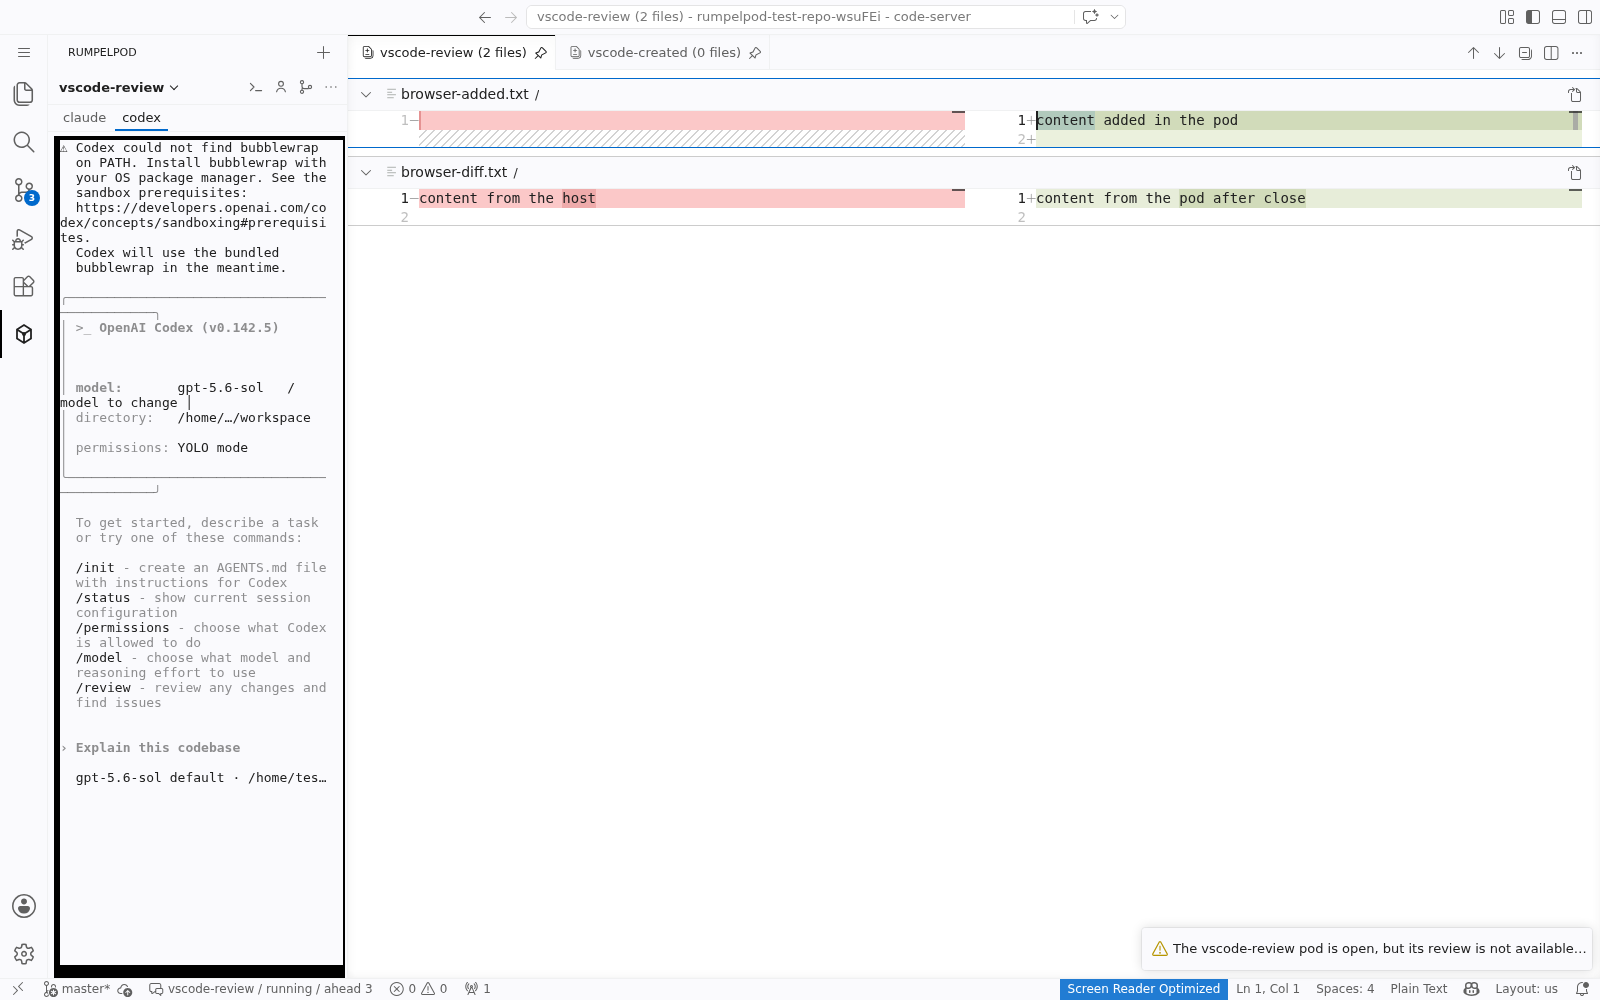
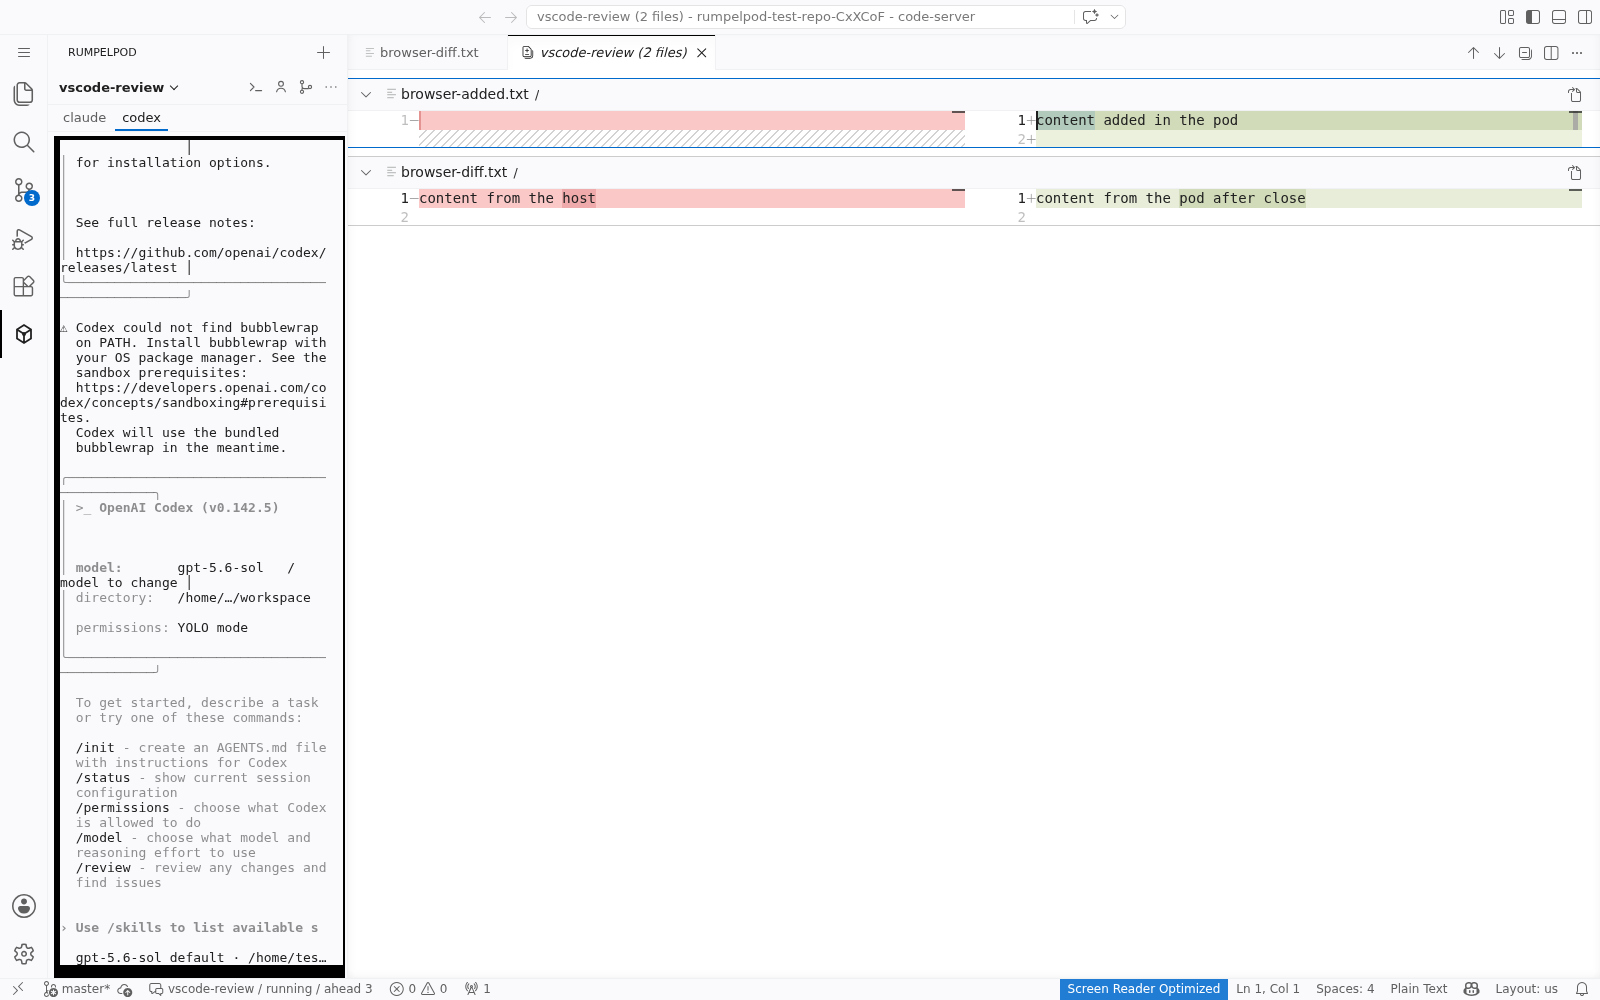
Clear inactive VS Code pod state

diff --git a/vscode/src/review.ts b/vscode/src/review.ts
@@ -147,15 +147,12 @@ export class ReviewDocuments implements vscode.TextDocumentContentProvider, vsco
     const record = this.reviews.get(key);
     let current = record?.current;
     let openTab = current === undefined ? undefined : this.findOpenTab(current);
-    let inheritedPin: boolean | undefined;
     if (!refreshOnly && openTab === undefined) {
-      inheritedPin = await this.takeRestoredEmpty(snapshot);
+      await this.takeRestoredEmpty(snapshot);
       const restoredTabs = this.findPodTabs(snapshot);
       const exact = restoredTabs.find((tab) => isSnapshotReviewTab(tab, snapshot));
       const staleTabs = restoredTabs.filter((tab) => tab !== exact);
       if (staleTabs.length > 0) {
-        const active = staleTabs.find((tab) => tab.isActive) ?? staleTabs[0];
-        inheritedPin ??= active?.isPinned;
         await vscode.window.tabGroups.close(staleTabs, true);
         for (const tab of staleTabs) {
           this.evictTab(tab);
@@ -186,25 +183,17 @@ export class ReviewDocuments implements vscode.TextDocumentContentProvider, vsco
       }
     }
 
-    const pinNew = inheritedPin ??
-      (current === undefined || !currentIsOpen || current.tab.isPinned);
     if (current !== undefined && (current.source !== snapshot.source || !currentIsOpen)) {
       await this.closeReviewNow(key, current);
     }
-    const tab = await this.show(snapshot, pinNew);
+    const tab = await this.show(snapshot);
     if (this.disposed) {
       await this.closeDisposedTab(tab);
     }
     this.reviews.set(key, { current: { ...snapshot, tab }, pending: undefined });
   }
 
-  private async show(
-    snapshot: ReviewSnapshot,
-    pinNew: boolean,
-  ): Promise<vscode.Tab> {
-    const tabsBefore = new Set(
-      vscode.window.tabGroups.all.flatMap((group) => group.tabs),
-    );
+  private async show(snapshot: ReviewSnapshot): Promise<vscode.Tab> {
     // vscode.changes uses a random identity, which duplicates a restored review.
     await vscode.commands.executeCommand(
       "_workbench.openMultiDiffEditor",
@@ -214,15 +203,14 @@ export class ReviewDocuments implements vscode.TextDocumentContentProvider, vsco
         title: snapshot.pod,
       } satisfies OpenMultiDiffEditorOptions,
     );
-    const opened = vscode.window.tabGroups.activeTabGroup.activeTab;
-    const isNew = opened !== undefined && !tabsBefore.has(opened);
-    if (opened !== undefined && isNew && pinNew) {
-      await vscode.commands.executeCommand("workbench.action.pinEditor");
+    let tab = vscode.window.tabGroups.activeTabGroup.activeTab;
+    if (tab?.isPinned === true) {
+      await vscode.commands.executeCommand("workbench.action.unpinEditor");
+      tab = vscode.window.tabGroups.activeTabGroup.activeTab;
     }
-    const tab = vscode.window.tabGroups.activeTabGroup.activeTab;
     if (
       tab === undefined ||
-      (isNew && pinNew && !tab.isPinned) ||
+      tab.isPinned ||
       !isSnapshotReviewTab(tab, snapshot)
     ) {
       throw new Error(`VS Code did not open the review for pod '${snapshot.pod}'`);
@@ -289,11 +277,10 @@ export class ReviewDocuments implements vscode.TextDocumentContentProvider, vsco
       if (pending === undefined) {
         return;
       }
-      const pinNew = active.isPinned;
       this.reviews.set(key, { current: record.current, pending: undefined });
       try {
         await this.closeReviewNow(key, record.current);
-        const tab = await this.show(pending, pinNew);
+        const tab = await this.show(pending);
         if (this.disposed) {
           await this.closeDisposedTab(tab);
         }
@@ -367,18 +354,15 @@ export class ReviewDocuments implements vscode.TextDocumentContentProvider, vsco
     }
   }
 
-  private async takeRestoredEmpty(snapshot: ReviewSnapshot): Promise<boolean | undefined> {
+  private async takeRestoredEmpty(snapshot: ReviewSnapshot): Promise<void> {
     if (
       snapshot.resources.length === 0 ||
       !vscode.window.tabGroups.all.some((group) =>
         group.tabs.some((tab) => isEmptyReviewTab(tab, snapshot.pod))
       )
     ) {
-      return undefined;
+      return;
     }
-    const tabsBefore = new Set(
-      vscode.window.tabGroups.all.flatMap((group) => group.tabs),
-    );
     await vscode.commands.executeCommand(
       "_workbench.openMultiDiffEditor",
       {
@@ -391,11 +375,8 @@ export class ReviewDocuments implements vscode.TextDocumentContentProvider, vsco
     if (tab === undefined || !isEmptyReviewTab(tab, snapshot.pod)) {
       throw new Error(`VS Code did not resolve the empty review for pod '${snapshot.pod}'`);
     }
-    const existed = tabsBefore.has(tab);
-    const wasPinned = tab.isPinned;
     await vscode.window.tabGroups.close(tab, true);
     this.evictTab(tab);
-    return existed ? wasPinned : undefined;
   }
 
   private findOpenTab(review: ReviewTab): vscode.Tab | undefined {

diff --git a/vscode/src/terminal.ts b/vscode/src/terminal.ts
@@ -441,12 +441,12 @@ export class AgentTerminals implements vscode.WebviewViewProvider, vscode.Dispos
       this.enqueueSwitch(async () => {
         for (const agent of AGENTS) {
           const channel = this.agentChannel(agent);
-          await this.stopRunning(channel, `closing the deleted pod's ${agent} attachment`);
+          await this.stopRunning(channel, `closing the inactive pod's ${agent} attachment`);
           this.resetChannel(channel);
         }
       }),
       this.enqueueShellSwitch(async () => {
-        await this.stopRunning(this.shellChannel, "closing the deleted pod shell");
+        await this.stopRunning(this.shellChannel, "closing the inactive pod shell");
         this.resetChannel(this.shellChannel);
       }),
     ]);
@@ -1174,32 +1174,32 @@ export class AgentTerminals implements vscode.WebviewViewProvider, vscode.Dispos
       <button id="shell-tab" class="terminal-tab" type="button" role="tab" aria-controls="shell-surface" aria-selected="false" hidden>shell</button>
     </nav>
     <div id="surfaces">
-      <div id="no-sessions" class="empty">Select or create a pod.</div>
+      <div id="no-sessions" class="empty">Create or select a pod.</div>
       <section id="claude-surface" class="surface" hidden>
         <div id="claude-terminal" class="terminal" aria-label="Rumpelpod Claude terminal"></div>
         <div id="claude-empty" class="empty">
-          <p id="claude-empty-message">Select or create a pod.</p>
+          <p id="claude-empty-message">Create or select a pod.</p>
           <button id="claude-restart" class="restart" type="button">Restart Claude</button>
         </div>
       </section>
       <section id="codex-surface" class="surface" hidden>
         <div id="codex-terminal" class="terminal" aria-label="Rumpelpod Codex terminal"></div>
         <div id="codex-empty" class="empty">
-          <p id="codex-empty-message">Select or create a pod.</p>
+          <p id="codex-empty-message">Create or select a pod.</p>
           <button id="codex-restart" class="restart" type="button">Restart Codex</button>
         </div>
       </section>
       <section id="grok-surface" class="surface" hidden>
         <div id="grok-terminal" class="terminal" aria-label="Rumpelpod Grok terminal"></div>
         <div id="grok-empty" class="empty">
-          <p id="grok-empty-message">Select or create a pod.</p>
+          <p id="grok-empty-message">Create or select a pod.</p>
           <button id="grok-restart" class="restart" type="button">Restart Grok</button>
         </div>
       </section>
       <section id="pi-surface" class="surface" hidden>
         <div id="pi-terminal" class="terminal" aria-label="Rumpelpod pi terminal"></div>
         <div id="pi-empty" class="empty">
-          <p id="pi-empty-message">Select or create a pod.</p>
+          <p id="pi-empty-message">Create or select a pod.</p>
           <button id="pi-restart" class="restart" type="button">Restart pi</button>
         </div>
       </section>
@@ -1226,7 +1226,7 @@ function emptyMessage(
 ): string {
   switch (state) {
     case "empty":
-      return "Select or create a pod above.";
+      return "Create or select a pod above.";
     case "exited":
       return `${agentLabel(agent)} is not attached.`;
     case "running":

diff --git a/vscode/src/controller.ts b/vscode/src/controller.ts
@@ -397,9 +397,7 @@ export class RumpelpodController implements vscode.Disposable {
         },
         () => this.model.mergePod(selected.repository, selected.pod),
       );
-      if (this.currentSelection(selected) !== undefined) {
-        await this.refresh(false);
-      }
+      await this.clearPodSelection(selected, false);
       void vscode.window.showInformationMessage(`Merged pod '${selected.pod}'.`);
     });
   }
@@ -414,9 +412,7 @@ export class RumpelpodController implements vscode.Disposable {
         },
         () => this.model.stopPod(selected.repository, selected.pod),
       );
-      if (this.currentSelection(selected) !== undefined) {
-        await this.refresh(false);
-      }
+      await this.clearPodSelection(selected, false);
     });
   }
 
@@ -441,25 +437,7 @@ export class RumpelpodController implements vscode.Disposable {
         },
         () => this.model.deletePod(selected.repository, selected.pod),
       );
-      const cleanup: Promise<unknown>[] = [
-        this.model.forgetPod(selected.repository, selected.pod),
-        this.reviewDocuments.close(selected.repository, selected.pod),
-      ];
-      if (this.currentSelection(selected) !== undefined) {
-        this.selectionGeneration += 1;
-        this.active = undefined;
-        this.updateStatus();
-        cleanup.push(this.terminals.clearActive(selected.repository, selected.pod));
-      }
-      const failures = (await Promise.allSettled(cleanup))
-        .filter((result): result is PromiseRejectedResult => result.status === "rejected")
-        .map((result) => result.reason);
-      if (failures.length === 1) {
-        throw failures[0];
-      }
-      if (failures.length > 1) {
-        throw new AggregateError(failures, "cleaning up the deleted pod UI failed");
-      }
+      await this.clearPodSelection(selected, true);
     });
   }
 
@@ -596,6 +574,33 @@ export class RumpelpodController implements vscode.Disposable {
       throw new Error(`select a pod before ${operation} it`);
     }
     return selected;
+  }
+
+  private async clearPodSelection(
+    selected: ActivePod,
+    forgetSessions: boolean,
+  ): Promise<void> {
+    const cleanup: Promise<unknown>[] = [
+      forgetSessions
+        ? this.model.forgetPod(selected.repository, selected.pod)
+        : this.model.forgetRememberedPod(selected.repository, selected.pod),
+      this.reviewDocuments.close(selected.repository, selected.pod),
+    ];
+    if (this.currentSelection(selected) !== undefined) {
+      this.selectionGeneration += 1;
+      this.active = undefined;
+      this.updateStatus();
+      cleanup.push(this.terminals.clearActive(selected.repository, selected.pod));
+    }
+    const failures = (await Promise.allSettled(cleanup))
+      .filter((result): result is PromiseRejectedResult => result.status === "rejected")
+      .map((result) => result.reason);
+    if (failures.length === 1) {
+      throw failures[0];
+    }
+    if (failures.length > 1) {
+      throw new AggregateError(failures, "clearing the inactive pod UI failed");
+    }
   }
 
   private enqueuePodOperation(operation: () => Promise<void>): Promise<void> {

diff --git a/vscode/src/model.ts b/vscode/src/model.ts
@@ -164,6 +164,10 @@ export class RumpelpodModel {
     const sessions = this.savedAgentSessions();
     delete sessions[assignmentKey(repository, pod)];
     await this.workspaceState.update(LAUNCHED_AGENTS_KEY, sessions);
+    await this.forgetRememberedPod(repository, pod);
+  }
+
+  public async forgetRememberedPod(repository: Repository, pod: string): Promise<void> {
     const last = this.lastPod();
     if (last?.repository === repository.root && last.pod === pod) {
       await this.workspaceState.update(LAST_POD_KEY, undefined);

diff --git a/vscode/README.md b/vscode/README.md
@@ -19,17 +19,22 @@ A single session uses the whole sidebar; named agent and shell tabs appear only
 while two or more sessions are open. Launching Claude while Codex is open keeps
 both independent PTYs alive instead of replacing one with the other. Selecting
 a pod restores its launched agents and focuses every changed file on the right
-in one vertically stacked review. The review is pinned by default but remains a
-normal closable VS Code editor. Selecting the pod again or choosing `View diff`
+in one vertically stacked review. The review remains an ordinary unpinned,
+closable VS Code editor. Selecting the pod again or choosing `View diff`
 from the actions menu focuses the existing review, or reopens it if it was
 closed. Background daemon events refresh the active review without stealing
 focus from another editor or resurrecting a closed one. Switching pods focuses
-that pod's existing review, or opens one if needed, while leaving other pod
-reviews open. The extension does not change VS Code's editor-tab settings, so
-ordinary files retain the user's normal tab behavior. Pods without changed
-files still open a native empty review surface instead of leaving the previous
-editor visible. Launched agent sets and the last active pod are saved across
-browser reloads.
+that pod's existing review, or opens one if needed. The extension does not
+explicitly close unrelated reviews, but VS Code may replace an unpinned preview
+tab according to its normal editor behavior. The extension does not change
+VS Code's editor-tab settings, so ordinary files retain the user's normal tab
+behavior. Pods without changed files still open a native empty review surface
+instead of leaving the previous editor visible. Launched agent sets and the
+last active pod are saved across browser reloads.
+
+Merging, stopping, or deleting the selected pod clears the sidebar selection,
+detaches its sessions, forgets it as the last active pod, and closes its review
+wherever that tab is open.
 
 ## Development
 
